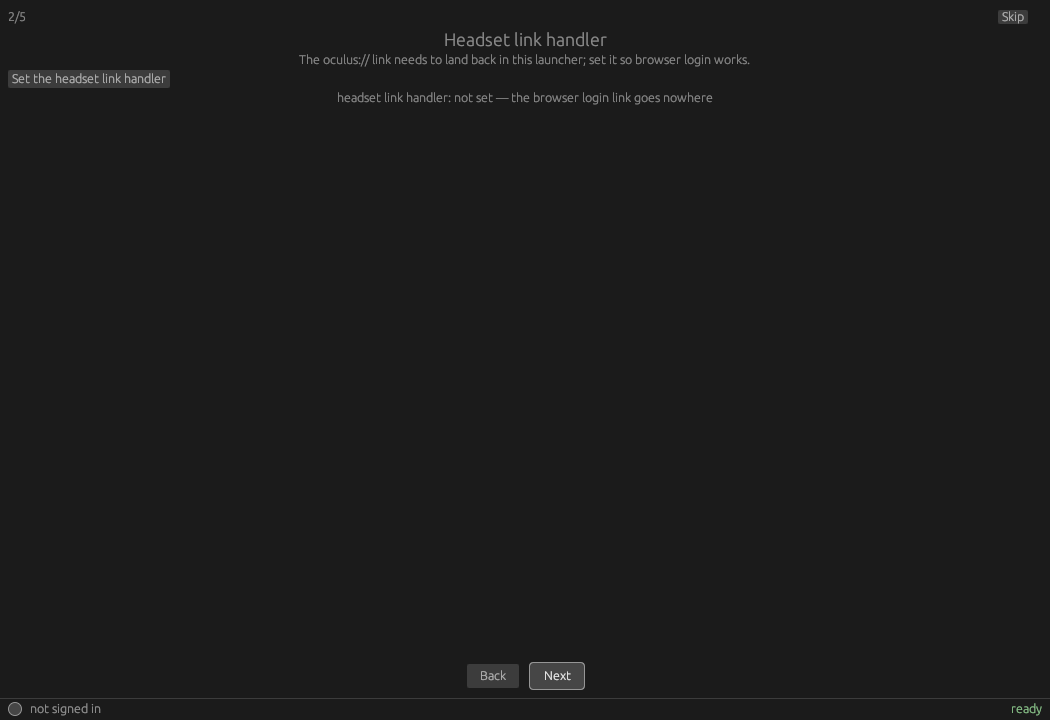
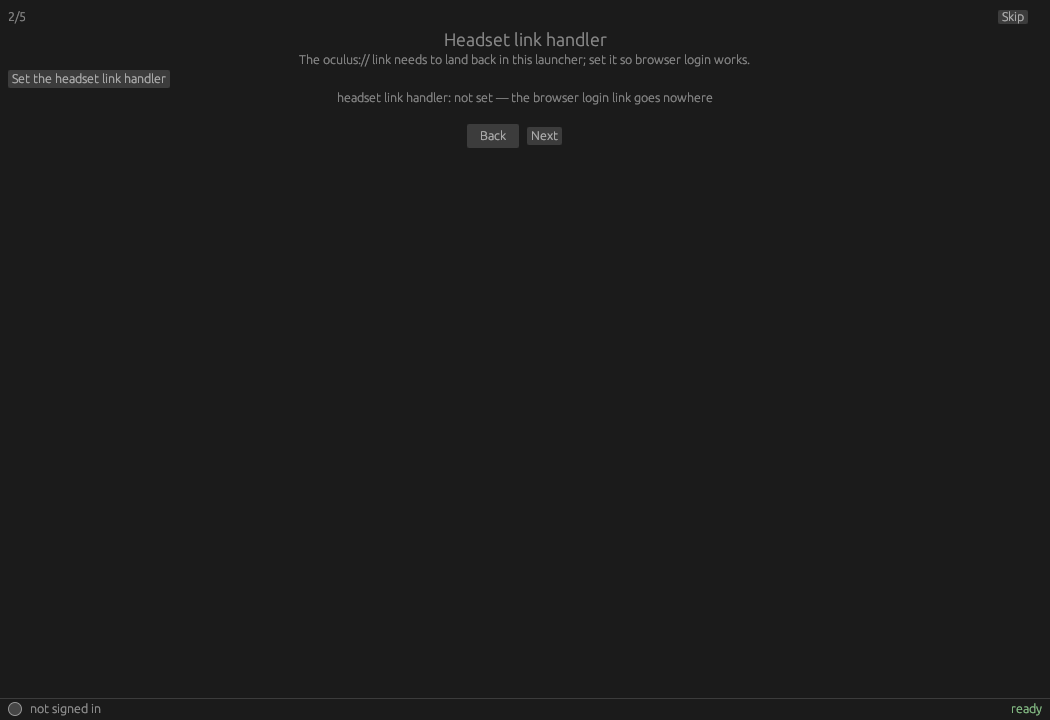
wizard buttons centered below step content (middle of screen, not bottom strip); brand heading casing Iris Game Launcher; bump 0.32.0

Changed region(s): [[0.4267, 0.9167, 0.579, 0.9778], [0.4267, 0.1528, 0.5486, 0.2139]]

diff --git a/launcher/src/onboarding.rs b/launcher/src/onboarding.rs
@@ -154,10 +154,9 @@ pub fn render(app: &mut App, ui: &mut egui::Ui) {
     let mut action: Option<Action> = None;
     let mut next = false;
     let mut finish = false;
-    // Reserve the bottom strip up front, so a tall step never pushes the
-    // Back/Next row off-screen. Two fixed-size rects, centered inside the
-    // strip; Back does nothing on the first screen (no session to go back to).
-    let panel = ui.available_rect_before_wrap();
+    // Buttons live right below the step content (the middle of the screen),
+    // centered horizontally: a spacer inside the row places them at the
+    // middle, not anchored to the bottom strip.
     let back_label = tr(&app.config, "onboard_back");
     let next_label = if step == Step::Games {
         tr(&app.config, "onboard_finish")
@@ -166,21 +165,11 @@ pub fn render(app: &mut App, ui: &mut egui::Ui) {
     };
     let back_w = back_label.chars().count() as f32 * 7.0 + 24.0;
     let next_w = next_label.chars().count() as f32 * 7.0 + 24.0;
-    let row_w = back_w + 12.0 + next_w;
-    let pad = ((panel.width() - row_w) * 0.5).max(0.0);
-    let row_y = panel.max.y - 26.0;
-    let back_rect = egui::Rect::from_min_size(
-        panel.min + egui::vec2(pad, row_y - panel.min.y),
-        egui::vec2(back_w, 24.0),
-    );
-    let next_rect = egui::Rect::from_min_size(
-        panel.min + egui::vec2(pad + back_w + 12.0, row_y - panel.min.y),
-        egui::vec2(next_w, 24.0),
-    );
+    let pad = ((ui.available_width() - back_w - 12.0 - next_w) * 0.5).max(0.0);
     ui.vertical_centered(|ui| match step {
         Step::Welcome => {
             load_logo(app, ui);
-            ui.heading("Iris game launcher");
+            ui.heading("Iris Game Launcher");
             let head = ui.style().text_styles[&egui::TextStyle::Heading].size;
             ui.label(
                 egui::RichText::new(env!("CARGO_PKG_VERSION").trim_end_matches(".0"))
@@ -366,23 +355,25 @@ pub fn render(app: &mut App, ui: &mut egui::Ui) {
         }
     });
 
-    // Draw the reserved row at the bottom strip: Back then Next/Finish,
-    // centered inside the strip. Back is inert on the first screen.
+    // Buttons live below the step content: spacer then Back then Next/Finish,
+    // all centered horizontally on the screen. Back is inert on the first
+    // screen.
+    ui.add_space(16.0);
     let first = app.onboarding.index() == 0;
-    let back_resp = ui.put(
-        back_rect,
-        egui::Button::new(egui::RichText::new(back_label)).min_size(egui::vec2(back_w, 24.0)),
-    );
-    let back = !first && back_resp.clicked();
-    let next_resp = ui.put(
-        next_rect,
-        egui::Button::new(egui::RichText::new(next_label)).min_size(egui::vec2(next_w, 24.0)),
-    );
-    if step == Step::Games {
-        finish = next_resp.clicked();
-    } else {
-        next = next_resp.clicked();
-    }
+    let mut back = false;
+    ui.horizontal(|ui| {
+        ui.add_space(pad);
+        let resp = ui.add(
+            egui::Button::new(egui::RichText::new(back_label.clone()))
+                .min_size(egui::vec2(back_w, 24.0)),
+        );
+        back = !first && resp.clicked();
+        if step == Step::Games {
+            finish = ui.button(next_label.clone()).clicked();
+        } else {
+            next = ui.button(next_label.clone()).clicked();
+        }
+    });
 
     // Wizard actions run after the drawing closure so app can be borrowed
     // mutably for the handler/login/proton work.

diff --git a/launcher/src/main.rs b/launcher/src/main.rs
@@ -5999,7 +5999,7 @@ impl eframe::App for App {
                 let title = if settings {
                     tr(&self.config, "settings")
                 } else {
-                    "Iris game launcher".to_string()
+                    "Iris Game Launcher".to_string()
                 };
                 ui.heading(title);
                 // Version right after the title text: small font, inline in
